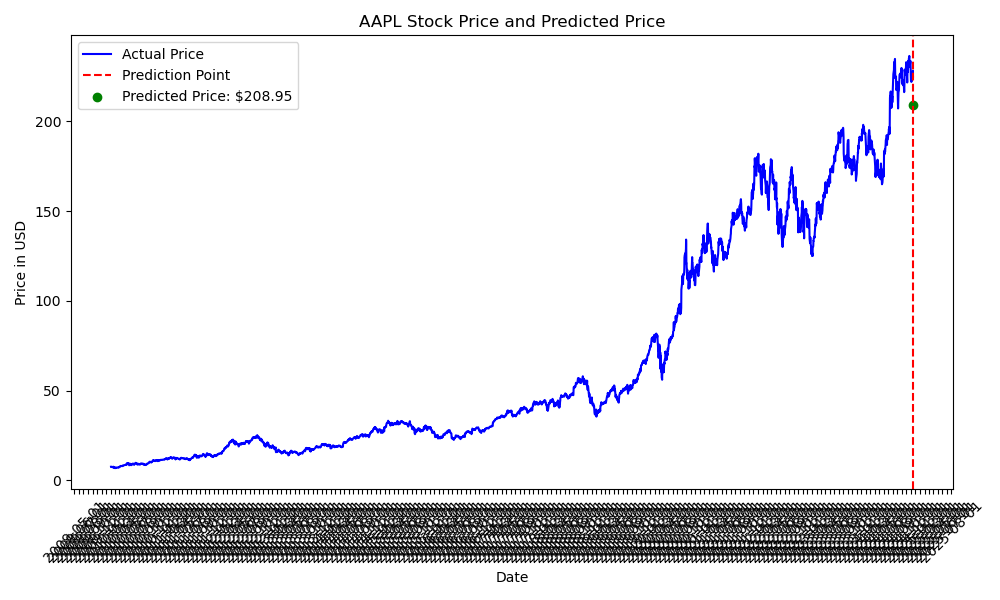
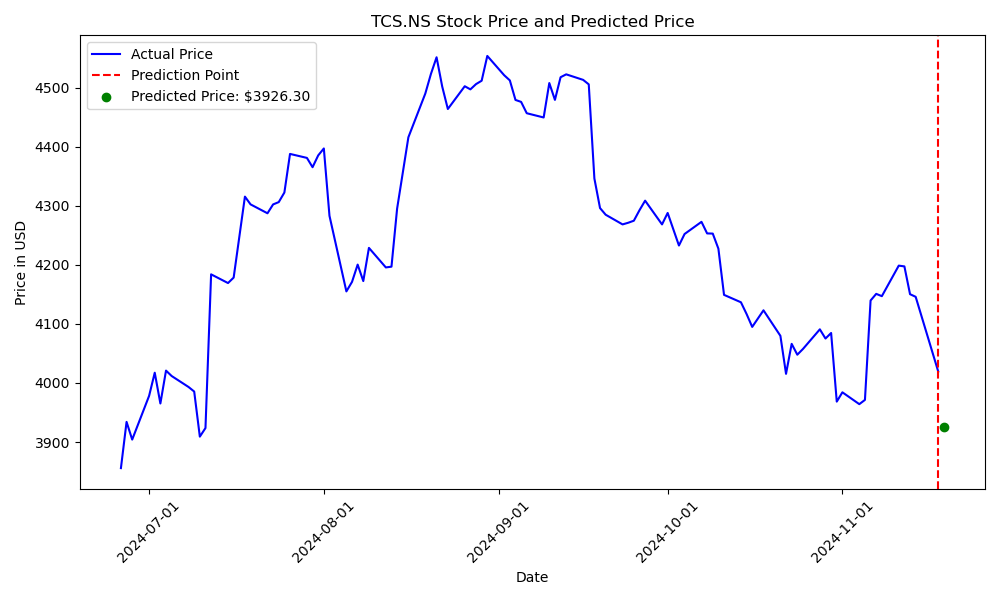
improved graph

diff --git a/templates/home.html b/templates/home.html
@@ -1,29 +1,28 @@
 <!DOCTYPE html>
-<html>
+<html lang="en">
 <head>
-    <title>Stock Price Predictor</title>
+    <meta charset="UTF-8">
+    <meta name="viewport" content="width=device-width, initial-scale=1.0">
+    <title>Stock Price Prediction</title>
 </head>
 <body>
-    <h1>Stock Price Predictor</h1>
-    <form action="/" method="post">
-        <label for="ticker">Enter Stock Ticker Symbol (e.g., AAPL):</label>
+    <h1>Stock Price Prediction</h1>
+    
+    <form method="POST">
+        <label for="ticker">Stock Ticker:</label>
         <input type="text" id="ticker" name="ticker" required>
-        <input type="submit" value="Predict Price">
+        <button type="submit">Submit</button>
     </form>
 
-    {% if predicted_price %}
-        <h2>Predicted Price for {{ ticker }}:</h2>
-        <p>${{ predicted_price }}</p>
-        
-        <h3>Current Price for {{ ticker }}:</h3>
-        <p>${{ current_price }}</p> <!-- Display Current Price -->
-        
-        <h3>Stock Price Prediction Chart:</h3>
-        <img src="{{ plot_url }}" alt="Stock Price Prediction Plot">
+    {% if ticker %}
+    <h3>Name of Stock: {{ ticker }}</h3>
+        <h3>Predicted Price: ${{ predicted_price }}</h3>
+        <h3>Current Price: ${{ current_price }}</h3>
+        <iframe src="{{ plot_url }}" width="100%" height="600"></iframe>
     {% endif %}
 
     {% if error %}
-        <p style="color: red;">{{ error }}</p>
+        <p style="color: red;">Error: {{ error }}</p>
     {% endif %}
 </body>
 </html>

diff --git a/.ipynb_checkpoints/app-checkpoint.py b/.ipynb_checkpoints/app-checkpoint.py
@@ -42,14 +42,17 @@ def preprocess_data(data):
     x_train = np.reshape(x_train, (x_train.shape[0], x_train.shape[1], 1))
     return x_train, scaler, data
 
-def create_plot(data, predicted_price, ticker):
+def create_plot(data, predicted_price, ticker, days=100):
+    # Get the last 'days' rows from the data (e.g., the last 30 days)
+    data_recent = data.tail(days)
+    
     # Plot the actual stock prices and the predicted price
     plt.figure(figsize=(10, 6))
-    plt.plot(data['Date'], data['Close'], label='Actual Price', color='blue')
-    plt.axvline(x=data['Date'].iloc[-1], color='red', linestyle='--', label='Prediction Point')
+    plt.plot(data_recent['Date'], data_recent['Close'], label='Actual Price', color='blue')
+    plt.axvline(x=data_recent['Date'].iloc[-1], color='red', linestyle='--', label='Prediction Point')
     
     # Add predicted future price point
-    future_date = data['Date'].iloc[-1] + pd.Timedelta(days=1)
+    future_date = data_recent['Date'].iloc[-1] + pd.Timedelta(days=1)
     plt.scatter(future_date, predicted_price, color='green', label=f'Predicted Price: ${predicted_price:.2f}')
     
     # Format the plot
@@ -68,6 +71,8 @@ def create_plot(data, predicted_price, ticker):
     plt.close()
     return plot_path
 
+
+# Define the route for the home page
 # Define the route for the home page
 @app.route('/', methods=['GET', 'POST'])
 def home():
@@ -81,11 +86,11 @@ def home():
             prediction = model.predict(x_train[-1:].reshape((1, 100, 1)))
             predicted_price = scaler.inverse_transform(prediction)[0][0]
             
-            # Get the current stock price
-            current_price = data['Close'].iloc[-1]  # Last available close price
+            # Get the current stock price (convert to float)
+            current_price = float(data['Close'].iloc[-1])  # Last available close price
             
-            # Generate the plot
-            plot_path = create_plot(data, predicted_price, ticker)
+            # Generate the plot for the last 30 days
+            plot_path = create_plot(data, predicted_price, ticker, days=100)
             
             return render_template('home.html', ticker=ticker, predicted_price=predicted_price, 
                                    current_price=current_price, plot_url=plot_path)
@@ -95,6 +100,7 @@ def home():
     
     return render_template('home.html')
 
+
 # Serve the generated plot from static folder
 @app.route('/static/<filename>')
 def send_image(filename):
@@ -102,3 +108,4 @@ def send_image(filename):
 
 if __name__ == '__main__':
     app.run(debug=True)
+

diff --git a/app.py b/app.py
@@ -42,14 +42,17 @@ def preprocess_data(data):
     x_train = np.reshape(x_train, (x_train.shape[0], x_train.shape[1], 1))
     return x_train, scaler, data
 
-def create_plot(data, predicted_price, ticker):
+def create_plot(data, predicted_price, ticker, days=100):
+    # Get the last 'days' rows from the data (e.g., the last 30 days)
+    data_recent = data.tail(days)
+    
     # Plot the actual stock prices and the predicted price
     plt.figure(figsize=(10, 6))
-    plt.plot(data['Date'], data['Close'], label='Actual Price', color='blue')
-    plt.axvline(x=data['Date'].iloc[-1], color='red', linestyle='--', label='Prediction Point')
+    plt.plot(data_recent['Date'], data_recent['Close'], label='Actual Price', color='blue')
+    plt.axvline(x=data_recent['Date'].iloc[-1], color='red', linestyle='--', label='Prediction Point')
     
     # Add predicted future price point
-    future_date = data['Date'].iloc[-1] + pd.Timedelta(days=1)
+    future_date = data_recent['Date'].iloc[-1] + pd.Timedelta(days=1)
     plt.scatter(future_date, predicted_price, color='green', label=f'Predicted Price: ${predicted_price:.2f}')
     
     # Format the plot
@@ -68,6 +71,8 @@ def create_plot(data, predicted_price, ticker):
     plt.close()
     return plot_path
 
+
+# Define the route for the home page
 # Define the route for the home page
 @app.route('/', methods=['GET', 'POST'])
 def home():
@@ -81,11 +86,11 @@ def home():
             prediction = model.predict(x_train[-1:].reshape((1, 100, 1)))
             predicted_price = scaler.inverse_transform(prediction)[0][0]
             
-            # Get the current stock price
-            current_price = data['Close'].iloc[-1]  # Last available close price
+            # Get the current stock price (convert to float)
+            current_price = float(data['Close'].iloc[-1])  # Last available close price
             
-            # Generate the plot
-            plot_path = create_plot(data, predicted_price, ticker)
+            # Generate the plot for the last 30 days
+            plot_path = create_plot(data, predicted_price, ticker, days=100)
             
             return render_template('home.html', ticker=ticker, predicted_price=predicted_price, 
                                    current_price=current_price, plot_url=plot_path)
@@ -95,6 +100,7 @@ def home():
     
     return render_template('home.html')
 
+
 # Serve the generated plot from static folder
 @app.route('/static/<filename>')
 def send_image(filename):
@@ -102,3 +108,4 @@ def send_image(filename):
 
 if __name__ == '__main__':
     app.run(debug=True)
+
